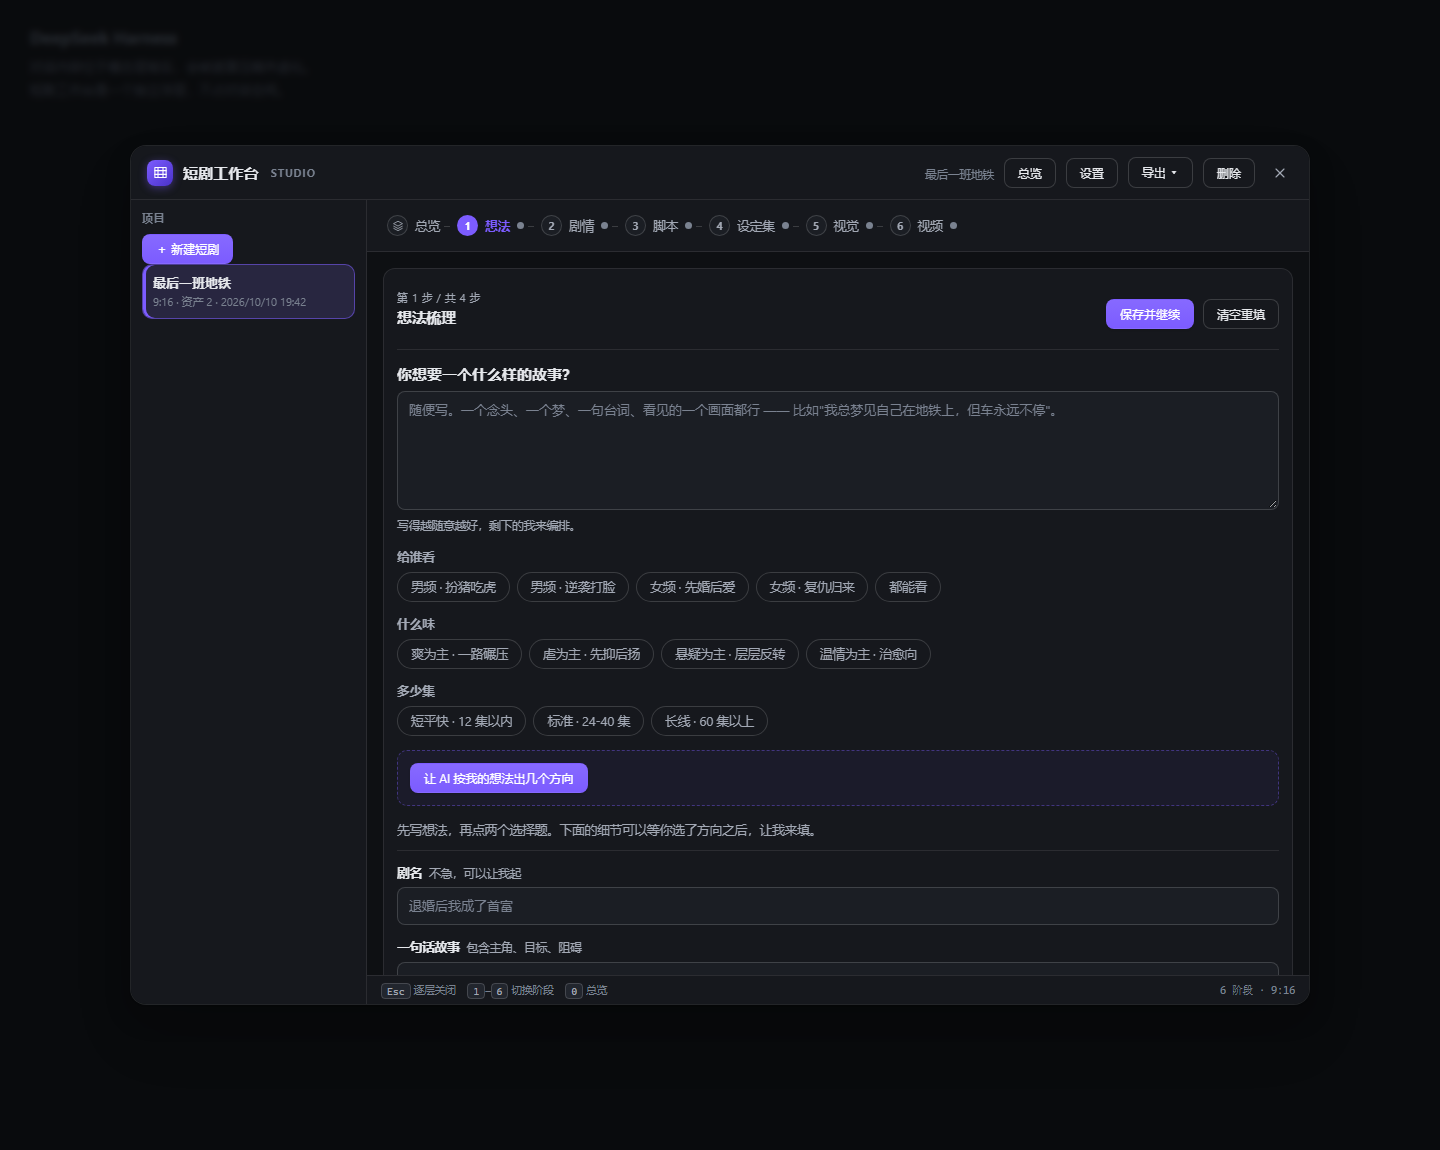
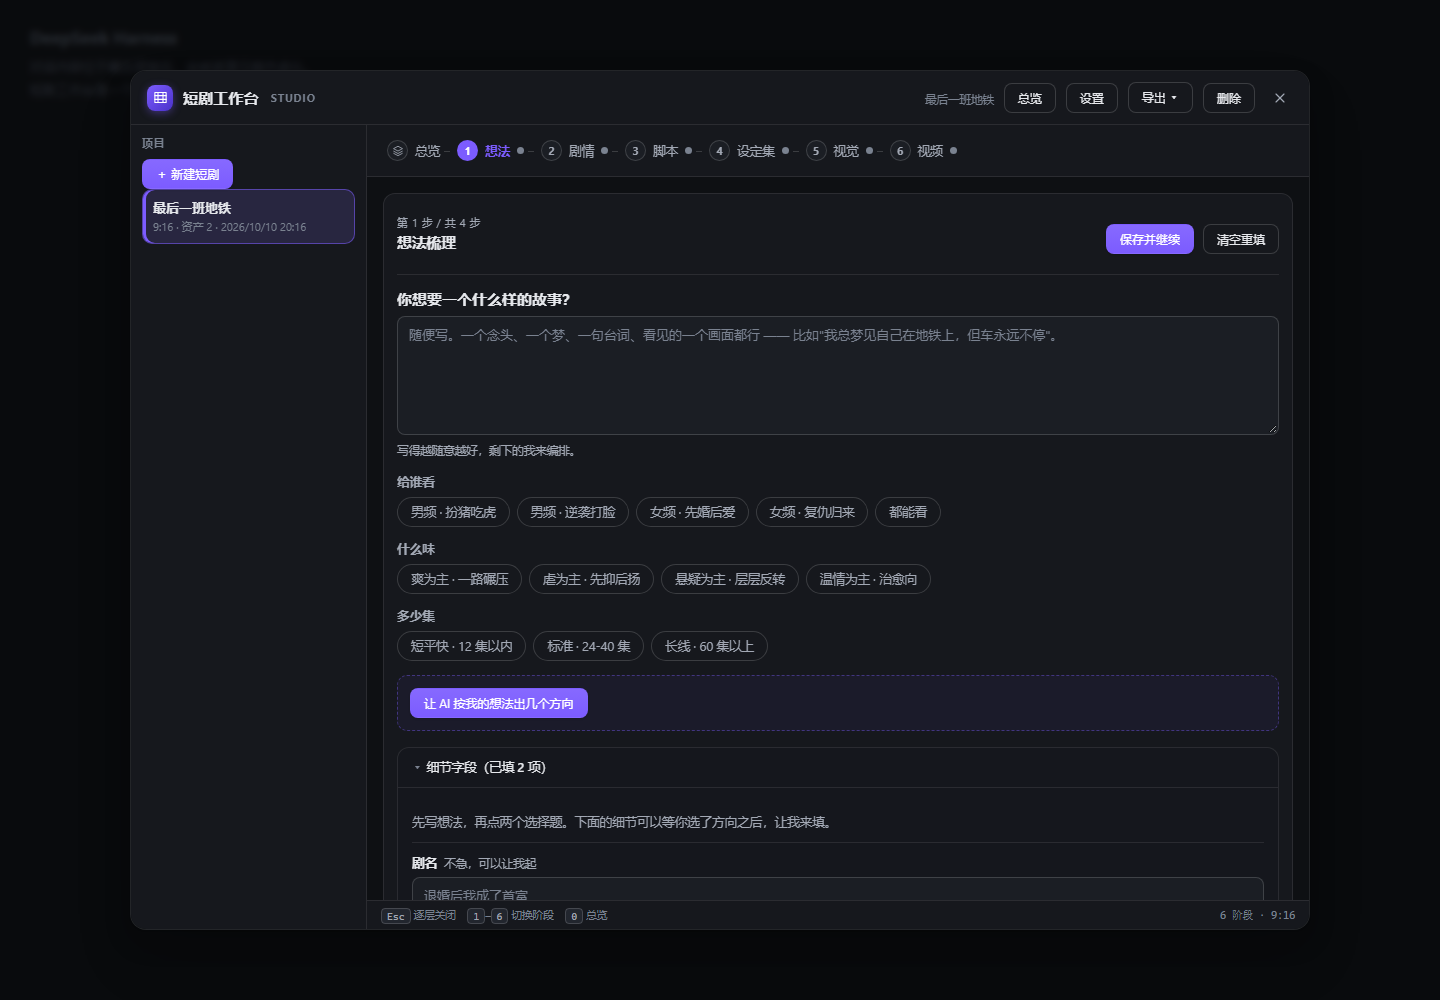
fix(ui): 第一步的细节字段默认收起
上一版只把必填标记去掉了，但 8 个输入框还摆在那里。用户反馈："这些
内容还在呀？" —— 说明问题不在必填标记，而在输入框本身。一个只有念头
的人看到"核心冲突与对手"这个空框，没标必填一样不知道该写什么。

现在：
- 第一步只显示：一个大问题 + 三组点选 + 「让 AI 出几个方向」
- 剧名/一句话故事/题材/基调/主角/冲突/钩子/结局移进折叠区
- 折叠标题会说实话：
    空着 ->「细节字段（可以先不管 —— 让 AI 初稿来填）」
    有内容 ->「细节字段（已填 N 项）」，并自动展开
- 四个阶段共用同一个渲染器，所以剧情/脚本/设定集也一并收起

判定逻辑：数组看 length，标量看空串，空数组不算已填。

新增 docs/verify-collapse.mjs（12 条断言）覆盖空白项目、仅空串、
空数组、以及"有内容就展开"。它直接测判定规则本身，因为 DOM 预览
用的 fixture 已有内容、必然处于展开态，测不到新项目的真实起点。

npm test: 16 套 + 2 道闸门全绿。

diff --git a/lib/client.js b/lib/client.js
@@ -1175,6 +1175,18 @@ window.__ModuleLoader__.load({
   background: color-mix(in srgb, var(--ad-accent) 6%, transparent);
 }
 .aidrama-draftRow .aidrama-fieldHint { flex: 1; min-width: 200px; }
+
+/* Detail fields stay folded away until wanted. */
+.aidrama-detailFields { margin-top: 2px; }
+.aidrama-detailFields > summary {
+  font-size: 13px; color: var(--ad-text-2); font-weight: 520;
+  padding: 13px 14px;
+}
+.aidrama-detailFields > summary:hover { color: var(--ad-text); }
+.aidrama-detailFields[open] > summary { color: var(--ad-text); }
+.aidrama-detailFields > *:not(summary) { margin: 0 14px 14px; }
+.aidrama-detailFields { display: flex; flex-direction: column; gap: 12px; }
+.aidrama-detailFields > summary { order: -1; }
 .aidrama-formHelp {
   font-size: 12.5px; color: var(--ad-text-2); line-height: 1.6;
   padding-bottom: 10px; border-bottom: 1px solid var(--ad-border);
@@ -2848,12 +2860,33 @@ select.aidrama-input { cursor: pointer; }
         }
         card.appendChild(draftRow)
 
-        if (str(form.help) !== '') {
-          card.appendChild(el('div', { class: 'aidrama-formHelp', text: str(form.help) }))
-        }
+        // The detail fields are COLLAPSED by default.
+        //
+        // Marking them "optional" was not enough: someone who only has an idea
+        // still sees eight empty boxes asking for a genre, a tone, a
+        // protagonist, an antagonist. The boxes themselves are the barrier, not
+        // the asterisks. So step 1 shows one question and a few choices; the
+        // rest is there when wanted and auto-expands once there is content.
+        const detailKeys = [...form.fields.map(f => f.key), ...(form.lists ?? []).map(l => l.key)]
+        const filled = detailKeys.filter(key => {
+          const value = getField([key])
+          if (Array.isArray(value)) return value.length > 0
+          return str(value ?? '') !== ''
+        })
+        const details = el('details', { class: 'aidrama-details aidrama-detailFields' })
+        if (filled.length > 0) details.setAttribute('open', '')
+        details.appendChild(el('summary', {
+          text: filled.length > 0
+            ? `细节字段（已填 ${filled.length} 项）`
+            : '细节字段（可以先不管 —— 让 AI 初稿来填）',
+        }))
 
-        for (const field of form.fields) card.appendChild(fieldControl(field, [field.key]))
-        for (const list of form.lists ?? []) card.appendChild(fieldList(list, [list.key]))
+        if (str(form.help) !== '') {
+          details.appendChild(el('div', { class: 'aidrama-formHelp', text: str(form.help) }))
+        }
+        for (const field of form.fields) details.appendChild(fieldControl(field, [field.key]))
+        for (const list of form.lists ?? []) details.appendChild(fieldList(list, [list.key]))
+        card.appendChild(details)
 
         if (state.commitError !== '') card.appendChild(el('div', { class: 'aidrama-error', text: state.commitError }))
         if (state.commitOk !== '') card.appendChild(el('div', { class: 'aidrama-ok', text: state.commitOk }))
